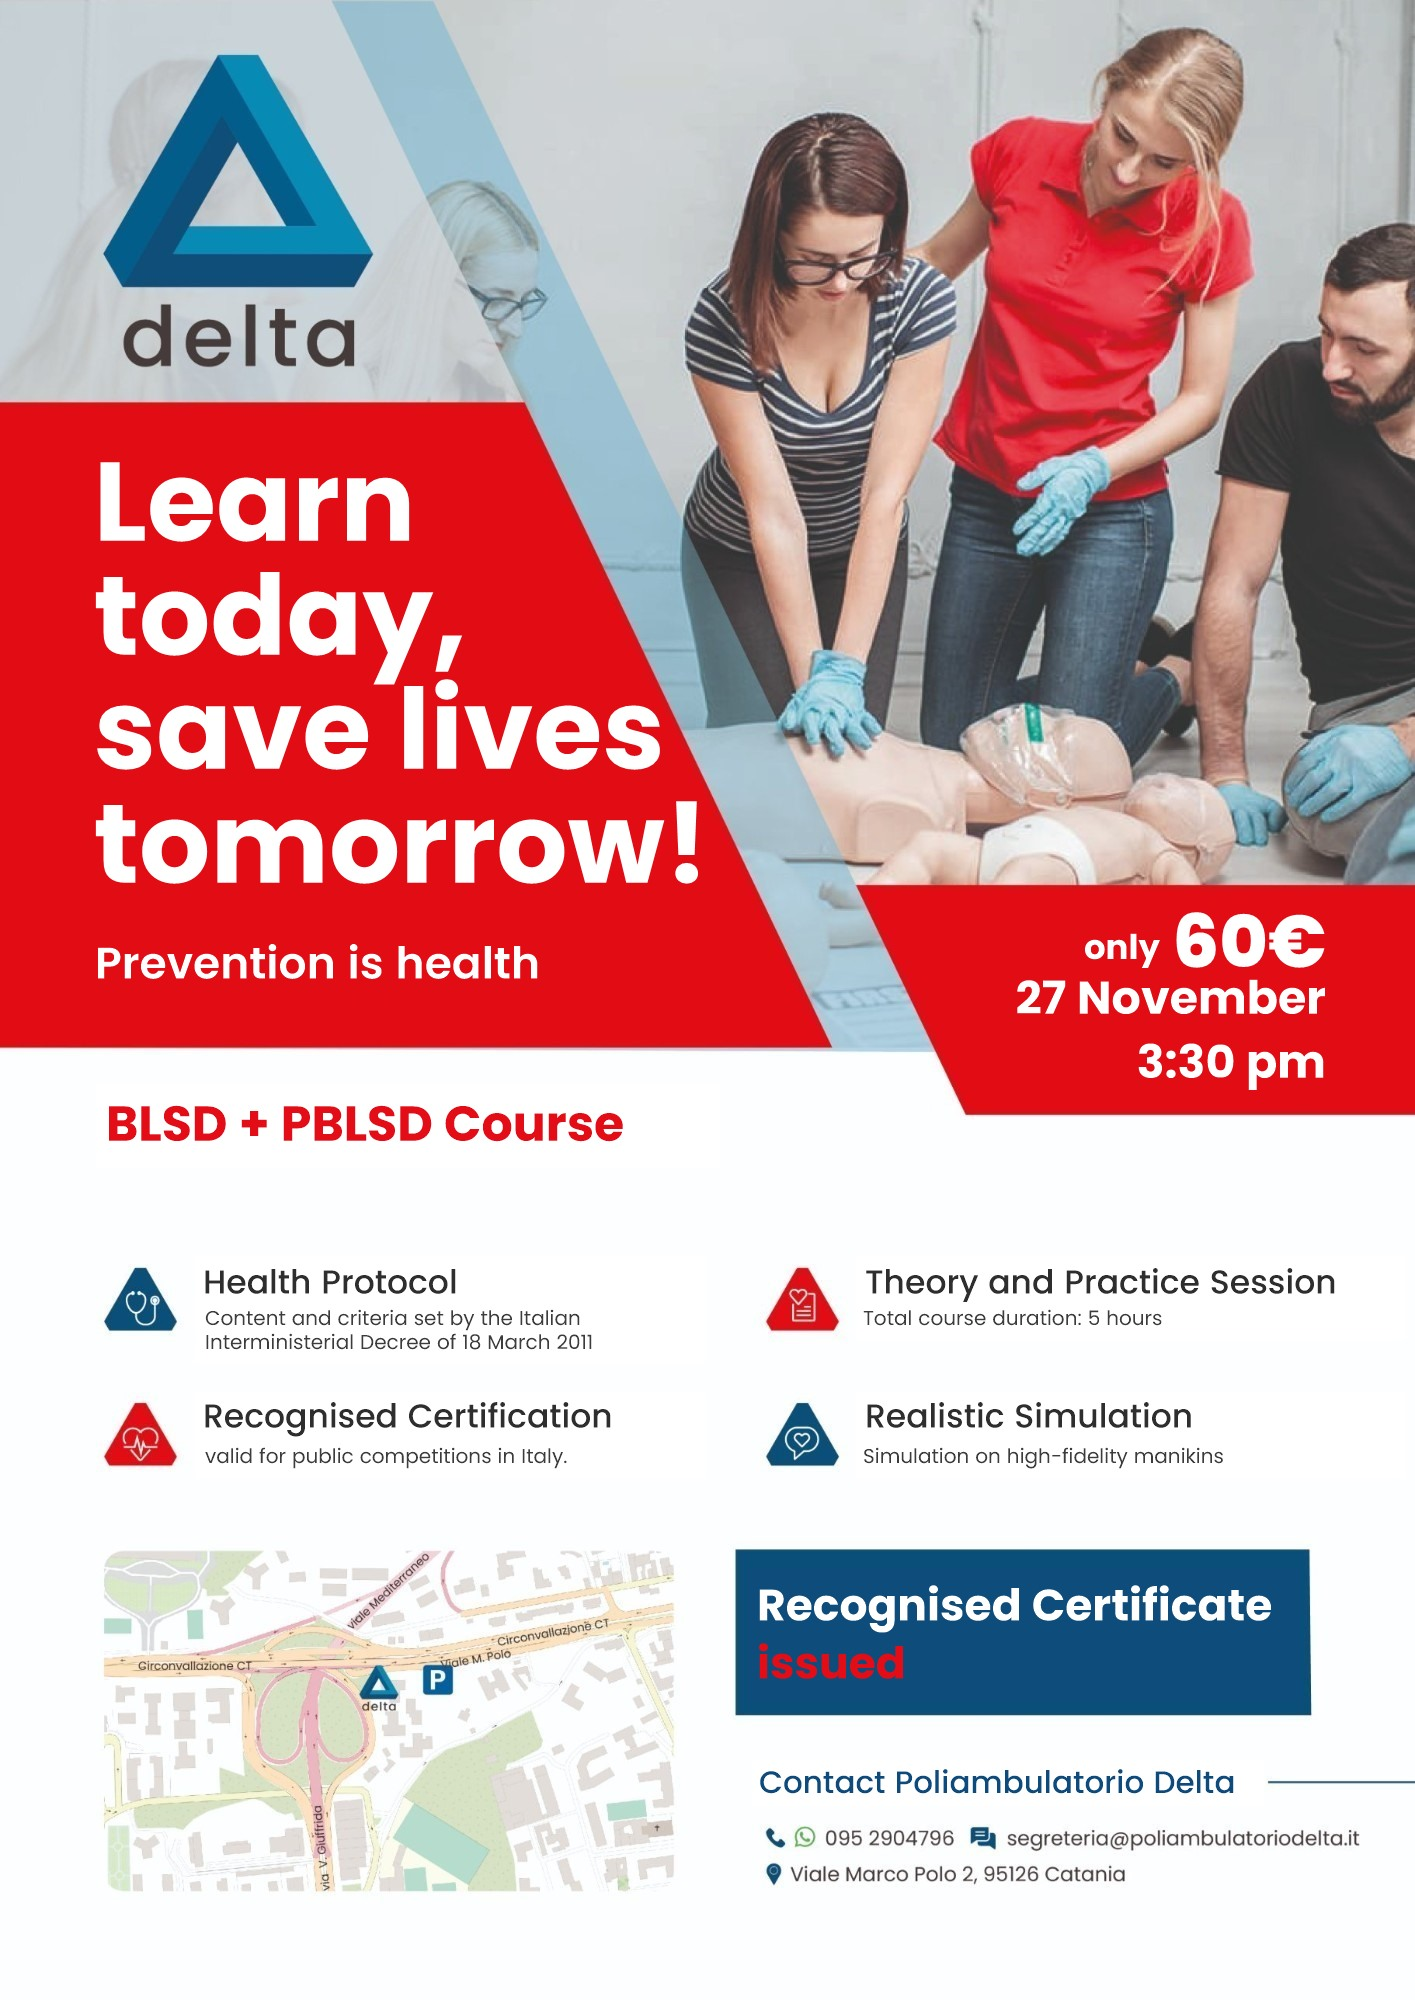
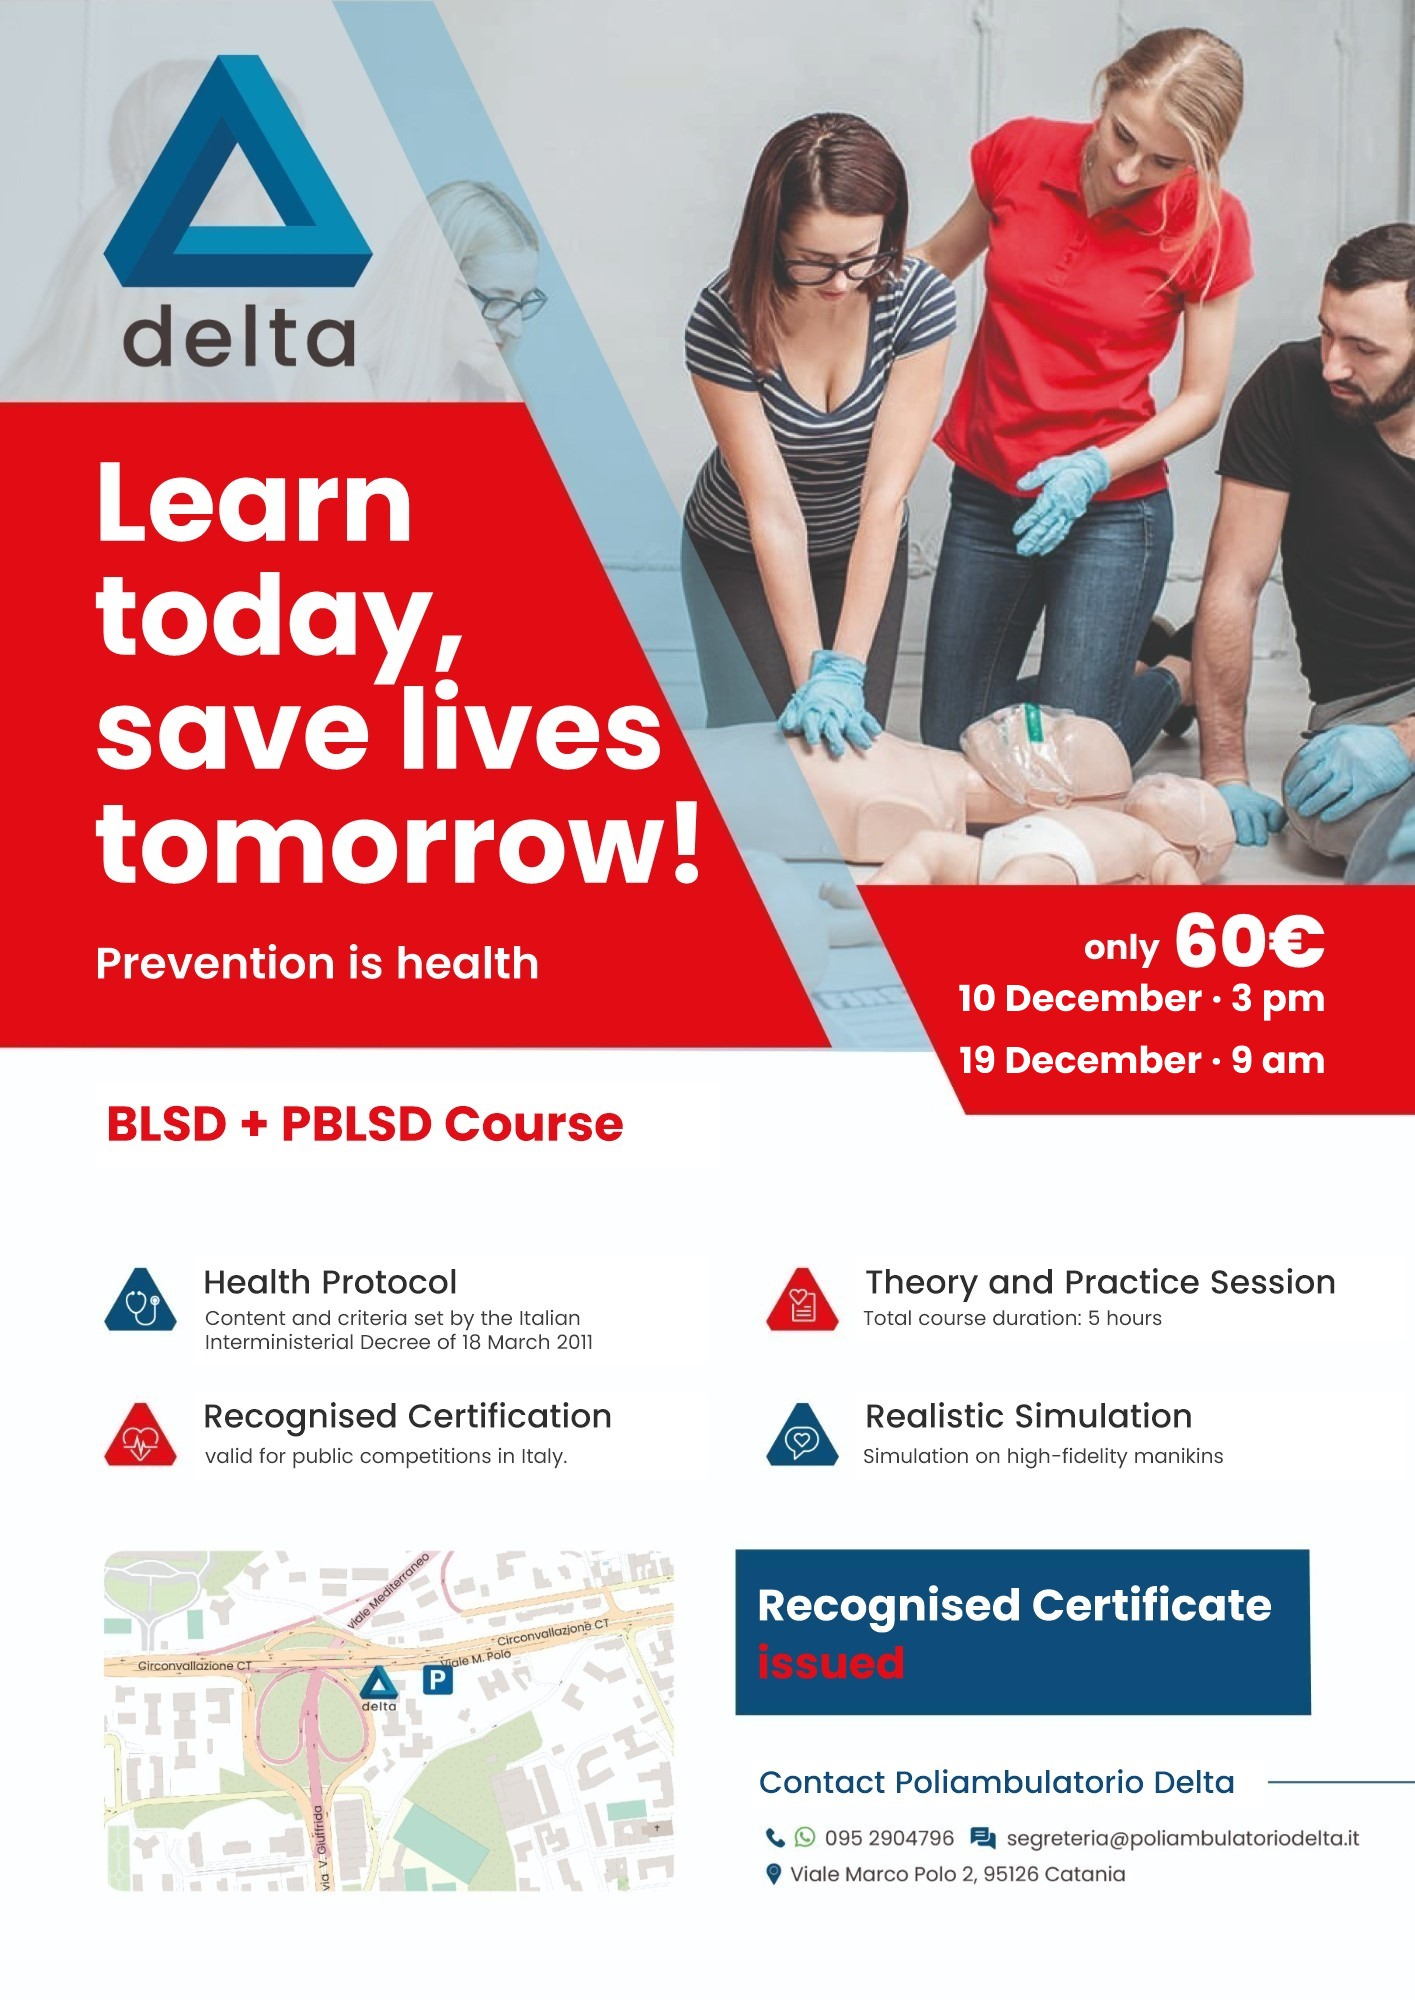
Aggiunge le date BLSD da dicembre 2026 a marzo 2027 e aggiorna le locandine IT/EN con le date di dicembre

Changed region(s): [[0.6841, 0.465, 0.9329, 0.558]]

diff --git a/js/corsi.js b/js/corsi.js
@@ -17,6 +17,86 @@
 // ============================================
 const CORSI_EVENTI = [
   {
+    id: 'blsd-2026-12-10',
+    tipo: 'corso',
+    titolo: 'Corso BLSD + PBLSD',
+    titolo_en: 'BLSD + PBLSD Course',
+    data: '2026-12-10',
+    orario: '15:00',
+    descrizione: "Formazione sulle manovre di rianimazione cardiopolmonare e sull'utilizzo del defibrillatore. Quota di partecipazione € 60,00.",
+    descrizione_en: "Training in cardiopulmonary resuscitation and in the use of the defibrillator. Participation fee € 60.00."
+  },
+  {
+    id: 'blsd-2026-12-19',
+    tipo: 'corso',
+    titolo: 'Corso BLSD + PBLSD',
+    titolo_en: 'BLSD + PBLSD Course',
+    data: '2026-12-19',
+    orario: '9:00',
+    descrizione: "Formazione sulle manovre di rianimazione cardiopolmonare e sull'utilizzo del defibrillatore. Quota di partecipazione € 60,00.",
+    descrizione_en: "Training in cardiopulmonary resuscitation and in the use of the defibrillator. Participation fee € 60.00."
+  },
+  {
+    id: 'blsd-2027-01-14',
+    tipo: 'corso',
+    titolo: 'Corso BLSD + PBLSD',
+    titolo_en: 'BLSD + PBLSD Course',
+    data: '2027-01-14',
+    orario: '15:00',
+    descrizione: "Formazione sulle manovre di rianimazione cardiopolmonare e sull'utilizzo del defibrillatore. Quota di partecipazione € 60,00.",
+    descrizione_en: "Training in cardiopulmonary resuscitation and in the use of the defibrillator. Participation fee € 60.00."
+  },
+  {
+    id: 'blsd-2027-01-30',
+    tipo: 'corso',
+    titolo: 'Corso BLSD + PBLSD',
+    titolo_en: 'BLSD + PBLSD Course',
+    data: '2027-01-30',
+    orario: '9:00',
+    descrizione: "Formazione sulle manovre di rianimazione cardiopolmonare e sull'utilizzo del defibrillatore. Quota di partecipazione € 60,00.",
+    descrizione_en: "Training in cardiopulmonary resuscitation and in the use of the defibrillator. Participation fee € 60.00."
+  },
+  {
+    id: 'blsd-2027-02-11',
+    tipo: 'corso',
+    titolo: 'Corso BLSD + PBLSD',
+    titolo_en: 'BLSD + PBLSD Course',
+    data: '2027-02-11',
+    orario: '15:00',
+    descrizione: "Formazione sulle manovre di rianimazione cardiopolmonare e sull'utilizzo del defibrillatore. Quota di partecipazione € 60,00.",
+    descrizione_en: "Training in cardiopulmonary resuscitation and in the use of the defibrillator. Participation fee € 60.00."
+  },
+  {
+    id: 'blsd-2027-02-27',
+    tipo: 'corso',
+    titolo: 'Corso BLSD + PBLSD',
+    titolo_en: 'BLSD + PBLSD Course',
+    data: '2027-02-27',
+    orario: '9:00',
+    descrizione: "Formazione sulle manovre di rianimazione cardiopolmonare e sull'utilizzo del defibrillatore. Quota di partecipazione € 60,00.",
+    descrizione_en: "Training in cardiopulmonary resuscitation and in the use of the defibrillator. Participation fee € 60.00."
+  },
+  {
+    id: 'blsd-2027-03-11',
+    tipo: 'corso',
+    titolo: 'Corso BLSD + PBLSD',
+    titolo_en: 'BLSD + PBLSD Course',
+    data: '2027-03-11',
+    orario: '15:00',
+    descrizione: "Formazione sulle manovre di rianimazione cardiopolmonare e sull'utilizzo del defibrillatore. Quota di partecipazione € 60,00.",
+    descrizione_en: "Training in cardiopulmonary resuscitation and in the use of the defibrillator. Participation fee € 60.00."
+  },
+  {
+    id: 'blsd-2027-03-27',
+    tipo: 'corso',
+    titolo: 'Corso BLSD + PBLSD',
+    titolo_en: 'BLSD + PBLSD Course',
+    data: '2027-03-27',
+    orario: '9:00',
+    descrizione: "Formazione sulle manovre di rianimazione cardiopolmonare e sull'utilizzo del defibrillatore. Quota di partecipazione € 60,00.",
+    descrizione_en: "Training in cardiopulmonary resuscitation and in the use of the defibrillator. Participation fee € 60.00."
+  },
+  {
     id: 'blsd-2026-11-27',
     tipo: 'corso',
     titolo: 'Corso BLSD + PBLSD',

diff --git a/corsi.html b/corsi.html
@@ -249,10 +249,10 @@
       <div class="course-card reveal">
         <div class="course-icon"><svg viewBox="0 0 24 24" fill="none" stroke="currentColor" stroke-width="1.7" stroke-linecap="round" stroke-linejoin="round"><path d="M20.84 4.61a5.5 5.5 0 0 0-7.78 0L12 5.67l-1.06-1.06a5.5 5.5 0 0 0-7.78 7.78l1.06 1.06L12 21.23l7.78-7.78 1.06-1.06a5.5 5.5 0 0 0 0-7.78z"/><path d="M13.3 8l-2.8 4.2h2.4l-1 3.6 3.2-4.8h-2.4z"/></svg></div>
         <h3>Corso BLSD + PBLSD</h3>
-        <p>Formazione sulle manovre di rianimazione cardiopolmonare e sull'utilizzo del defibrillatore. Prossima edizione: 27 Novembre 2026 alle ore 15:30, € 60,00.</p>
+        <p>Formazione sulle manovre di rianimazione cardiopolmonare e sull'utilizzo del defibrillatore. Prossime edizioni: 10 Dicembre 2026 alle ore 15:00 e 19 Dicembre 2026 alle ore 9:00, € 60,00. Tutte le date fino a marzo 2027 sono nel calendario qui sotto.</p>
         <div class="course-card-actions">
           <button type="button" class="btn btn-outline info-btn" data-info="blsd"><svg viewBox="0 0 24 24" fill="none" stroke="currentColor" stroke-width="2"><circle cx="12" cy="12" r="9"/><path d="M12 11v5M12 8v.01"/></svg>Programma e dettagli</button>
-          <a href="#" class="btn btn-primary" data-wa-message="Salve, vorrei ricevere informazioni sul Corso BLSD + PBLSD del 27 Novembre 2026 alle ore 15:30.">Richiedi informazioni</a>
+          <a href="#" class="btn btn-primary" data-wa-message="Salve, vorrei ricevere informazioni sul Corso BLSD + PBLSD (prossime date: 10 Dicembre ore 15:00 e 19 Dicembre ore 9:00).">Richiedi informazioni</a>
         </div>
       </div>
 
@@ -407,16 +407,16 @@
 
 
 <script src="js/main.js?v=2"></script>
-<script src="js/corsi.js?v=9"></script>
+<script src="js/corsi.js?v=10"></script>
 <script>
   // Contenuto informativo sui corsi — proposta di testo generico, da confermare con la segreteria
   const CORSI_INFO = {
     blsd: {
       titolo: 'Corso BLSD + PBLSD',
       html: `
-        <img src="images/promo-blsd.jpg?v=5" alt="Locandina del Corso BLSD + PBLSD, 27 Novembre 2026 ore 15:30, a 60 euro" class="info-modal-poster">
-        <h4>Prossima edizione</h4>
-        <p><strong>27 Novembre 2026, ore 15:30</strong> — quota di partecipazione <strong>€ 60,00</strong> — durata totale <strong>5 ore</strong>.</p>
+        <img src="images/promo-blsd.jpg?v=6" alt="Locandina del Corso BLSD + PBLSD, 10 Dicembre ore 15 e 19 Dicembre ore 9, a 60 euro" class="info-modal-poster">
+        <h4>Prossime edizioni</h4>
+        <p><strong>10 Dicembre 2026, ore 15:00</strong> e <strong>19 Dicembre 2026, ore 9:00</strong> (le date successive, da gennaio a marzo 2027, sono nel calendario) — quota di partecipazione <strong>€ 60,00</strong> — durata totale <strong>5 ore</strong>.</p>
         <h4>A chi è rivolto</h4>
         <p>Il corso, conforme al DM 18 marzo 2011 e alle linee guida ILCOR, è rivolto a personale non sanitario (laico) e si articola in una parte teorica e una parte pratica, con verifica finale obbligatoria per il rilascio dell'attestato.</p>
         <h4>Parte teorica (circa 2 ore)</h4>

diff --git a/en/corsi.html b/en/corsi.html
@@ -249,10 +249,10 @@
       <div class="course-card reveal">
         <div class="course-icon"><svg viewBox="0 0 24 24" fill="none" stroke="currentColor" stroke-width="1.7" stroke-linecap="round" stroke-linejoin="round"><path d="M20.84 4.61a5.5 5.5 0 0 0-7.78 0L12 5.67l-1.06-1.06a5.5 5.5 0 0 0-7.78 7.78l1.06 1.06L12 21.23l7.78-7.78 1.06-1.06a5.5 5.5 0 0 0 0-7.78z"/><path d="M13.3 8l-2.8 4.2h2.4l-1 3.6 3.2-4.8h-2.4z"/></svg></div>
         <h3>BLSD + PBLSD Course</h3>
-        <p>Training in cardiopulmonary resuscitation and in the use of the defibrillator. Next edition: 27 November 2026 at 3:30 pm, € 60.00.</p>
+        <p>Training in cardiopulmonary resuscitation and in the use of the defibrillator. Next editions: 10 December 2026 at 3 pm and 19 December 2026 at 9 am, € 60.00. All dates up to March 2027 are in the calendar below.</p>
         <div class="course-card-actions">
           <button type="button" class="btn btn-outline info-btn" data-info="blsd"><svg viewBox="0 0 24 24" fill="none" stroke="currentColor" stroke-width="2"><circle cx="12" cy="12" r="9"/><path d="M12 11v5M12 8v.01"/></svg>Programme and details</button>
-          <a href="#" class="btn btn-primary" data-wa-message="Hello, I would like to receive information about the BLSD + PBLSD Course on 27 November 2026 at 3:30 pm.">Request information</a>
+          <a href="#" class="btn btn-primary" data-wa-message="Hello, I would like to receive information about the BLSD + PBLSD Course (next dates: 10 December at 3 pm and 19 December at 9 am).">Request information</a>
         </div>
       </div>
 
@@ -407,16 +407,16 @@
 
 
 <script src="../js/main.js?v=2"></script>
-<script src="../js/corsi.js?v=9"></script>
+<script src="../js/corsi.js?v=10"></script>
 <script>
   // Contenuto informativo sui corsi — proposta di testo generico, da confermare con la segreteria
   const CORSI_INFO = {
     blsd: {
       titolo: 'BLSD + PBLSD Course',
       html: `
-        <img src="../images/promo-blsd-en.jpg?v=1" alt="BLSD + PBLSD Course poster, 27 November 2026 at 3:30 pm, 60 euros" class="info-modal-poster">
-        <h4>Next edition</h4>
-        <p><strong>27 November 2026, 3:30 pm</strong> — participation fee <strong>€ 60.00</strong> — total duration <strong>5 hours</strong>.</p>
+        <img src="../images/promo-blsd-en.jpg?v=2" alt="BLSD + PBLSD Course poster, 10 December at 3 pm and 19 December at 9 am, 60 euros" class="info-modal-poster">
+        <h4>Next editions</h4>
+        <p><strong>10 December 2026, 3 pm</strong> and <strong>19 December 2026, 9 am</strong> (further dates, from January to March 2027, are in the calendar) — participation fee <strong>€ 60.00</strong> — total duration <strong>5 hours</strong>.</p>
         <h4>Who it is for</h4>
         <p>The course, compliant with the Italian Ministerial Decree of 18 March 2011 and with ILCOR guidelines, is aimed at non-healthcare (lay) participants and consists of a theory part and a practical part, with a compulsory final assessment for the certificate to be issued.</p>
         <h4>Theory (about 2 hours)</h4>

diff --git a/index.html b/index.html
@@ -254,8 +254,8 @@
           </div>
 
           <div class="promo-card">
-            <div class="promo-card-image lightbox-trigger" data-full="images/promo-blsd-full.jpg?v=5" role="button" tabindex="0" aria-label="Ingrandisci la locandina del Corso BLSD + PBLSD">
-              <img src="images/promo-blsd.jpg?v=5" alt="Locandina del Corso BLSD + PBLSD, 27 Novembre 2026 ore 15:30, Poliambulatorio Delta">
+            <div class="promo-card-image lightbox-trigger" data-full="images/promo-blsd-full.jpg?v=6" role="button" tabindex="0" aria-label="Ingrandisci la locandina del Corso BLSD + PBLSD">
+              <img src="images/promo-blsd.jpg?v=6" alt="Locandina del Corso BLSD + PBLSD, 10 Dicembre ore 15 e 19 Dicembre ore 9, Poliambulatorio Delta">
             </div>
             <div class="promo-card-body">
               <span class="promo-tag">Corso in programma</span>
@@ -266,9 +266,9 @@
                 <li><strong>Simulazione realistica</strong> su manichini ad alto realismo</li>
                 <li><strong>Certificazione riconosciuta</strong>, valevole ai fini concorsuali</li>
               </ul>
-              <span class="promo-date">27 Novembre 2026, ore 15:30 — Sala corsi del Poliambulatorio Delta</span>
+              <span class="promo-date">10 Dicembre 2026, ore 15:00 e 19 Dicembre 2026, ore 9:00 — Sala corsi del Poliambulatorio Delta</span>
               <div>
-                <a href="#" class="btn btn-primary" data-wa-message="Salve, vorrei ricevere informazioni sul Corso BLSD + PBLSD del 27 Novembre 2026 alle ore 15:30 presso il Poliambulatorio Delta.">Richiedi informazioni</a>
+                <a href="#" class="btn btn-primary" data-wa-message="Salve, vorrei ricevere informazioni sul Corso BLSD + PBLSD presso il Poliambulatorio Delta (prossime date: 10 Dicembre ore 15:00 e 19 Dicembre ore 9:00).">Richiedi informazioni</a>
               </div>
             </div>
           </div>

diff --git a/en/index.html b/en/index.html
@@ -254,8 +254,8 @@
           </div>
 
           <div class="promo-card">
-            <div class="promo-card-image lightbox-trigger" data-full="../images/promo-blsd-en-full.jpg?v=1" role="button" tabindex="0" aria-label="Enlarge the BLSD + PBLSD Course poster">
-              <img src="../images/promo-blsd-en.jpg?v=1" alt="BLSD + PBLSD Course poster, 27 November 2026 at 3:30 pm, Poliambulatorio Delta">
+            <div class="promo-card-image lightbox-trigger" data-full="../images/promo-blsd-en-full.jpg?v=2" role="button" tabindex="0" aria-label="Enlarge the BLSD + PBLSD Course poster">
+              <img src="../images/promo-blsd-en.jpg?v=2" alt="BLSD + PBLSD Course poster, 10 December at 3 pm and 19 December at 9 am, Poliambulatorio Delta">
             </div>
             <div class="promo-card-body">
               <span class="promo-tag">Upcoming course</span>
@@ -266,9 +266,9 @@
                 <li><strong>Realistic simulation</strong> on high-fidelity manikins</li>
                 <li><strong>Recognised certification</strong>, valid for public competitions in Italy</li>
               </ul>
-              <span class="promo-date">27 November 2026, 3:30 pm — Training room at Poliambulatorio Delta</span>
+              <span class="promo-date">10 December 2026, 3 pm and 19 December 2026, 9 am — Training room at Poliambulatorio Delta</span>
               <div>
-                <a href="#" class="btn btn-primary" data-wa-message="Hello, I would like to receive information about the BLSD + PBLSD Course on 27 November 2026 at 3:30 pm at Poliambulatorio Delta.">Request information</a>
+                <a href="#" class="btn btn-primary" data-wa-message="Hello, I would like to receive information about the BLSD + PBLSD Course at Poliambulatorio Delta (next dates: 10 December at 3 pm and 19 December at 9 am).">Request information</a>
               </div>
             </div>
           </div>
